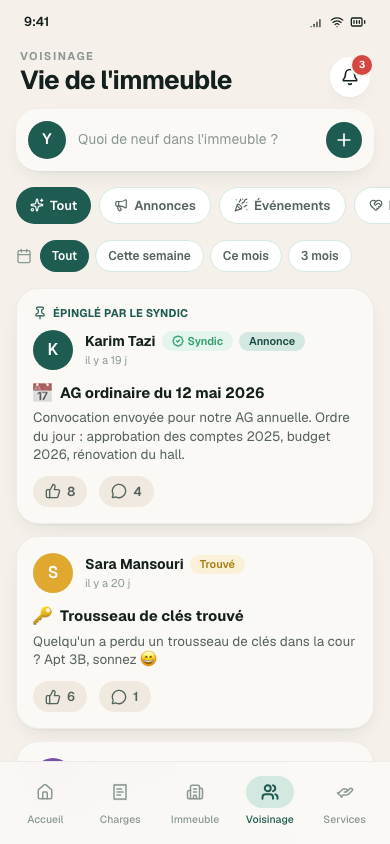
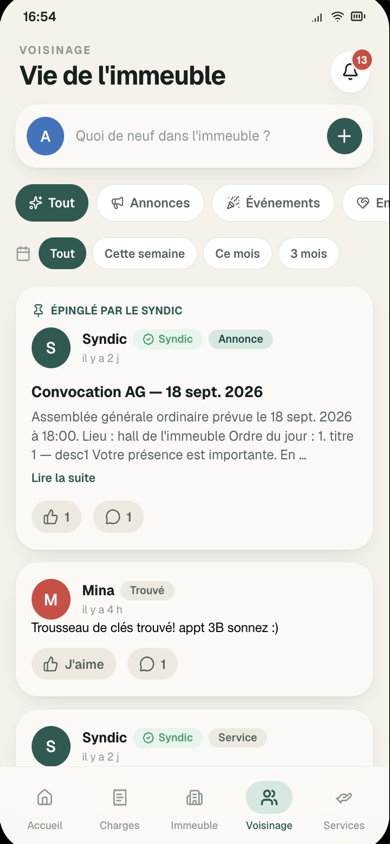
Site officiel : refonte textes, screenshots, footer
- Titre : "Votre résidence, enfin bien gérée."
- Textes simplifiés (hero, syndic, services, voisinage)
- Enlever em dashes, "Bientôt sur" → "Disponible sur"
- Screenshots mis à jour (voisinage, syndic-dashboard)
- Footer : email copiable + suppression liens CGU/Confidentialité vides
- CSP : unsafe-eval autorisé en dev uniquement
- Enlever section CTA, bouton Résident, lien Télécharger

diff --git a/web/src/app/(site)/site/page.tsx b/web/src/app/(site)/site/page.tsx
@@ -1,6 +1,7 @@
 import Link from "next/link";
 import { LogoMark, Wordmark } from "@/components/brand/Logo";
 import { Icon } from "@/components/ui/Icon";
+import { CopyEmail } from "@/components/ui/CopyEmail";
 
 export const metadata = {
   title: "Palier | La super-app des copropriétés marocaines",
@@ -12,14 +13,18 @@ export const metadata = {
    Device mockup shells
    ═══════════════════════════════════════════════ */
 
-function PhoneFrame({ src, alt, className = "" }: { src: string; alt: string; className?: string }) {
+function PhoneFrame({ src, alt, className = "", bare = false }: { src: string; alt: string; className?: string; bare?: boolean }) {
   return (
     <div className={className}>
       <div className="overflow-hidden rounded-[2.2rem] border-[5px] border-[#1a1a1a] bg-[#1a1a1a] shadow-2xl">
-        <div className="relative pt-[3px]">
-          <div className="absolute left-1/2 top-[1px] z-10 h-[8px] w-[40px] -translate-x-1/2 rounded-full bg-[#1a1a1a]" />
+        {bare ? (
           <img src={src} alt={alt} className="block w-full" draggable={false} />
-        </div>
+        ) : (
+          <div className="relative pt-[3px]">
+            <div className="absolute left-1/2 top-[1px] z-10 h-[8px] w-[40px] -translate-x-1/2 rounded-full bg-[#1a1a1a]" />
+            <img src={src} alt={alt} className="block w-full" draggable={false} />
+          </div>
+        )}
       </div>
     </div>
   );
@@ -54,17 +59,17 @@ function MacFrame({ src, alt }: { src: string; alt: string }) {
 function StoreBadges({ className = "" }: { className?: string }) {
   return (
     <div className={`flex flex-wrap items-center gap-3 ${className}`}>
-      <span className="inline-flex cursor-not-allowed items-center gap-2.5 rounded-xl bg-[#111815] py-2.5 pl-3.5 pr-5 opacity-60">
+      <span className="inline-flex items-center gap-2.5 rounded-xl bg-[#111815] py-2.5 pl-3.5 pr-5">
         <svg className="h-6 w-6 text-white" viewBox="0 0 24 24" fill="currentColor"><path d="M18.71 19.5C17.88 20.74 17 21.95 15.66 21.97C14.32 21.99 13.89 21.18 12.37 21.18C10.84 21.18 10.37 21.95 9.1 21.99C7.79 22.03 6.8 20.68 5.96 19.47C4.25 17 2.94 12.45 4.7 9.39C5.57 7.87 7.13 6.91 8.82 6.88C10.1 6.86 11.32 7.75 12.11 7.75C12.89 7.75 14.37 6.68 15.92 6.84C16.57 6.87 18.39 7.1 19.56 8.82C19.47 8.88 17.39 10.1 17.41 12.63C17.44 15.65 20.06 16.66 20.09 16.67C20.06 16.74 19.67 18.11 18.71 19.5ZM13 3.5C13.73 2.67 14.94 2.04 15.94 2C16.07 3.17 15.6 4.35 14.9 5.19C14.21 6.04 13.07 6.7 11.95 6.61C11.8 5.46 12.36 4.26 13 3.5Z" /></svg>
         <div className="flex flex-col leading-none">
-          <span className="text-[10px] text-white/60">Bientôt sur</span>
+          <span className="text-[10px] text-white/60">Disponible sur</span>
           <span className="text-[15px] font-semibold text-white">App Store</span>
         </div>
       </span>
-      <span className="inline-flex cursor-not-allowed items-center gap-2.5 rounded-xl bg-[#111815] py-2.5 pl-3.5 pr-5 opacity-60">
+      <span className="inline-flex items-center gap-2.5 rounded-xl bg-[#111815] py-2.5 pl-3.5 pr-5">
         <svg className="h-6 w-6" viewBox="0 0 512 512" fill="none"><path d="M239.2 270.9L44.5 471.7a47.9 47.9 0 0 0 31.4 11.8c10.4 0 20-3.3 28.2-9L325 347.2 239.2 270.9Z" fill="#EA4335"/><path d="M382.3 233.7l-57.3-32.5L244 270.9l81 76.3 57.2-32.4c17.3-9.8 27.8-27.5 27.8-40.6s-10.5-30.7-27.7-40.5Z" fill="#FBBC04"/><path d="M44.5 40.3C42.9 45.5 42 51.2 42 57.4v397.2c0 6.2.9 11.9 2.5 17.1L239.2 270.9 44.5 40.3Z" fill="#4285F4"/><path d="M241.4 256L325 164.8l-221-125.3A47.3 47.3 0 0 0 75.9 28.7c-12.1 0-23.2 4.3-31.4 11.6L241.4 256Z" fill="#34A853"/></svg>
         <div className="flex flex-col leading-none">
-          <span className="text-[10px] text-white/60">Bientôt sur</span>
+          <span className="text-[10px] text-white/60">Disponible sur</span>
           <span className="text-[15px] font-semibold text-white">Google Play</span>
         </div>
       </span>
@@ -106,11 +111,11 @@ export default function SitePage() {
                 <span className="text-[13px] font-semibold text-[#0B7A57]">La super-app des copropriétés</span>
               </div>
               <h1 className="text-[38px] font-extrabold leading-[1.08] tracking-tight text-[#111815] sm:text-[52px] lg:text-[60px]">
-                Votre résidence<br />
-                <span className="text-[#0B7A57]">mérite mieux.</span>
+                Votre résidence,<br />
+                <span className="text-[#0B7A57]">enfin bien gérée.</span>
               </h1>
               <p className="mx-auto mt-6 max-w-[420px] text-[16px] leading-relaxed text-[#6b7280] sm:text-[18px] lg:mx-0">
-                Palier connecte résidents et syndics sur une seule plateforme. Charges, transparence financière, incidents, voisinage.
+                Charges, incidents, voisinage. Tout ce qu'il faut pour que votre résidence fonctionne, enfin sur une seule plateforme.
               </p>
               <StoreBadges className="mt-9 justify-center lg:justify-start" />
               <div className="mt-6 flex items-center justify-center lg:justify-start">
@@ -140,7 +145,7 @@ export default function SitePage() {
             <div>
               <p className="mb-3 text-[11px] font-bold uppercase tracking-[0.15em] text-[#0B7A57]">Incidents</p>
               <h2 className="text-[26px] font-extrabold leading-tight tracking-tight text-[#111815] sm:text-[34px]">
-                Signalez un problème en 10 secondes
+                Signalez un problème en quelques secondes
               </h2>
               <p className="mt-4 max-w-md text-[15px] leading-relaxed text-[#6b7280] sm:text-[16px]">
                 Ascenseur en panne, fuite d'eau, problème de sécurité. Plus besoin d'appeler ou d'envoyer un message WhatsApp au syndic.
@@ -173,7 +178,7 @@ export default function SitePage() {
                 Votre communauté, connectée
               </h2>
               <p className="mt-4 max-w-md text-[15px] leading-relaxed text-[#6b7280] sm:text-[16px]">
-                Un espace social pour votre immeuble. Annonces du syndic, événements, entraide entre voisins — tout au même endroit.
+                Un espace social pour votre immeuble. Annonces du syndic, événements, entraide entre voisins. Tout au même endroit.
               </p>
               <ul className="mt-6 space-y-3">
                 {[
@@ -206,10 +211,10 @@ export default function SitePage() {
             <div>
               <p className="mb-3 text-[11px] font-bold uppercase tracking-[0.15em] text-[#0B7A57]">Services</p>
               <h2 className="text-[26px] font-extrabold leading-tight tracking-tight text-[#111815] sm:text-[34px]">
-                Les bons plans de vos voisins
+                Les prestataires recommandés par vos voisins
               </h2>
               <p className="mt-4 max-w-md text-[15px] leading-relaxed text-[#6b7280] sm:text-[16px]">
-                Besoin d'un plombier ? D'une femme de ménage ? Vos voisins ont déjà testé et recommandé les meilleurs prestataires du quartier.
+                Besoin d'un plombier ? D'un service de ménage ? Vos voisins ont déjà testé et recommandé les meilleurs prestataires du quartier.
               </p>
               <ul className="mt-6 space-y-3">
                 {[
@@ -236,7 +241,7 @@ export default function SitePage() {
             Tout centraliser, ne rien oublier
           </h2>
           <p className="mx-auto mb-12 max-w-lg text-center text-[15px] leading-relaxed text-[#6b7280] sm:text-[16px]">
-            Recouvrement en un clic, relances WhatsApp, comptabilité conforme à la loi 18-00, assemblées générales digitalisées. Palier remplace vos fichiers Excel.
+            Charges, comptabilité, assemblées générales. Gérez tout depuis un seul tableau de bord.
           </p>
           <MacFrame src="/screens/syndic-dashboard.png" alt="Tableau de bord syndic" />
           <div className="mt-8">
@@ -253,7 +258,7 @@ export default function SitePage() {
 
           <div className="grid gap-x-6 gap-y-10 sm:grid-cols-2 lg:grid-cols-3">
             {[
-              { icon: "Eye", title: "Transparence financière", desc: "Chaque centime du budget de votre immeuble, visible en temps réel. Encaissements, dépenses, solde de caisse." },
+              { icon: "Eye", title: "Transparence financière", desc: "Suivez le budget de votre immeuble en toute transparence. Encaissements, dépenses, solde de caisse." },
               { icon: "Banknote", title: "Charges & paiements", desc: "Consultez vos charges, leur détail, les échéances. Recevez vos reçus de paiement numériques." },
               { icon: "FileText", title: "Documents", desc: "PV d'assemblées, règlement de copropriété, contrats d'assurance. Tout accessible à tout moment." },
               { icon: "CalendarDays", title: "Assemblées générales", desc: "Convocations, ordre du jour, votes pondérés par tantièmes depuis votre téléphone, comptes-rendus." },
@@ -274,23 +279,6 @@ export default function SitePage() {
         </div>
       </section>
 
-      {/* ═══ CTA ═══ */}
-      <section className="bg-[#111815]">
-        <div className="mx-auto max-w-6xl px-5 pb-20 sm:px-8 sm:pb-28">
-          <div className="relative overflow-hidden rounded-3xl bg-gradient-to-br from-[#0B7A57] to-[#096b4c] px-6 py-14 text-center sm:px-12 sm:py-20">
-            <div className="absolute inset-0 bg-[radial-gradient(circle_at_top_right,rgba(255,255,255,0.08),transparent_60%)]" />
-            <div className="relative">
-              <h2 className="text-[24px] font-extrabold tracking-tight text-white sm:text-[34px]">
-                Prêt à transformer votre résidence ?
-              </h2>
-              <p className="mx-auto mt-4 max-w-md text-[15px] leading-relaxed text-white/70">
-                Téléchargez Palier et rejoignez les copropriétés marocaines qui ont choisi la transparence.
-              </p>
-              <StoreBadges className="mt-8 justify-center" />
-            </div>
-          </div>
-        </div>
-      </section>
 
       {/* ═══ Footer ═══ */}
       <footer className="border-t border-white/[0.06] bg-[#0c1210] py-12">
@@ -301,17 +289,12 @@ export default function SitePage() {
               <p className="max-w-[260px] text-center text-[13px] leading-relaxed text-white/40 sm:text-left">La super-app des copropriétés marocaines.</p>
             </div>
             <div className="flex flex-wrap justify-center gap-x-8 gap-y-2 text-[13px] text-white/50">
-              <Link href="/bienvenue" className="transition-colors hover:text-white/80">Télécharger</Link>
               <a href="#fonctionnalites" className="transition-colors hover:text-white/80">Fonctionnalités</a>
-              <a href="mailto:contact@palier.ma" className="transition-colors hover:text-white/80">Contact</a>
+              <CopyEmail email="contact@palier.ma" className="text-white/50 hover:text-white/80" />
             </div>
           </div>
           <div className="mt-10 flex flex-col items-center gap-3 border-t border-white/[0.06] pt-6 sm:flex-row sm:justify-between">
             <p className="text-[11px] text-white/30">© {new Date().getFullYear()} Palier. Tous droits réservés.</p>
-            <div className="flex gap-5 text-[11px] text-white/30">
-              <a href="mailto:contact@palier.ma" className="transition-colors hover:text-white/50">Conditions d&apos;utilisation</a>
-              <a href="mailto:contact@palier.ma" className="transition-colors hover:text-white/50">Politique de confidentialité</a>
-            </div>
           </div>
         </div>
       </footer>

diff --git a/web/next.config.ts b/web/next.config.ts
@@ -7,7 +7,7 @@ const securityHeaders = [
   { key: "Referrer-Policy", value: "strict-origin-when-cross-origin" },
   { key: "Permissions-Policy", value: "geolocation=(), microphone=(), camera=()" },
   { key: "Strict-Transport-Security", value: "max-age=63072000; includeSubDomains; preload" },
-  { key: "Content-Security-Policy", value: "default-src 'self'; script-src 'self' 'unsafe-inline'; style-src 'self' 'unsafe-inline'; img-src 'self' data: blob: https://*.supabase.co https://places.googleapis.com; font-src 'self'; connect-src 'self' https://*.supabase.co wss://*.supabase.co https://places.googleapis.com; frame-ancestors 'none'; base-uri 'self'; form-action 'self';" },
+  { key: "Content-Security-Policy", value: `default-src 'self'; script-src 'self' 'unsafe-inline'${process.env.NODE_ENV === "development" ? " 'unsafe-eval'" : ""}; style-src 'self' 'unsafe-inline'; img-src 'self' data: blob: https://*.supabase.co https://places.googleapis.com; font-src 'self'; connect-src 'self' https://*.supabase.co wss://*.supabase.co https://places.googleapis.com; frame-ancestors 'none'; base-uri 'self'; form-action 'self';` },
 ];
 
 const nextConfig: NextConfig = {

diff --git a/web/src/components/ui/CopyEmail.tsx b/web/src/components/ui/CopyEmail.tsx
@@ -1,0 +1,25 @@
+"use client";
+
+import { useState } from "react";
+
+export function CopyEmail({ email, className = "" }: { email: string; className?: string }) {
+  const [copied, setCopied] = useState(false);
+
+  function handleCopy() {
+    navigator.clipboard.writeText(email).then(() => {
+      setCopied(true);
+      setTimeout(() => setCopied(false), 2000);
+    });
+  }
+
+  return (
+    <button onClick={handleCopy} className={`inline-flex items-center gap-1.5 transition-colors ${className}`} title="Copier l'email">
+      <span>{email}</span>
+      {copied ? (
+        <svg className="h-3.5 w-3.5 text-green-400" fill="none" viewBox="0 0 24 24" stroke="currentColor" strokeWidth={2.5}><path strokeLinecap="round" strokeLinejoin="round" d="M5 13l4 4L19 7" /></svg>
+      ) : (
+        <svg className="h-3.5 w-3.5 opacity-50" fill="none" viewBox="0 0 24 24" stroke="currentColor" strokeWidth={2}><rect x="9" y="9" width="13" height="13" rx="2" /><path d="M5 15H4a2 2 0 01-2-2V4a2 2 0 012-2h9a2 2 0 012 2v1" /></svg>
+      )}
+    </button>
+  );
+}
